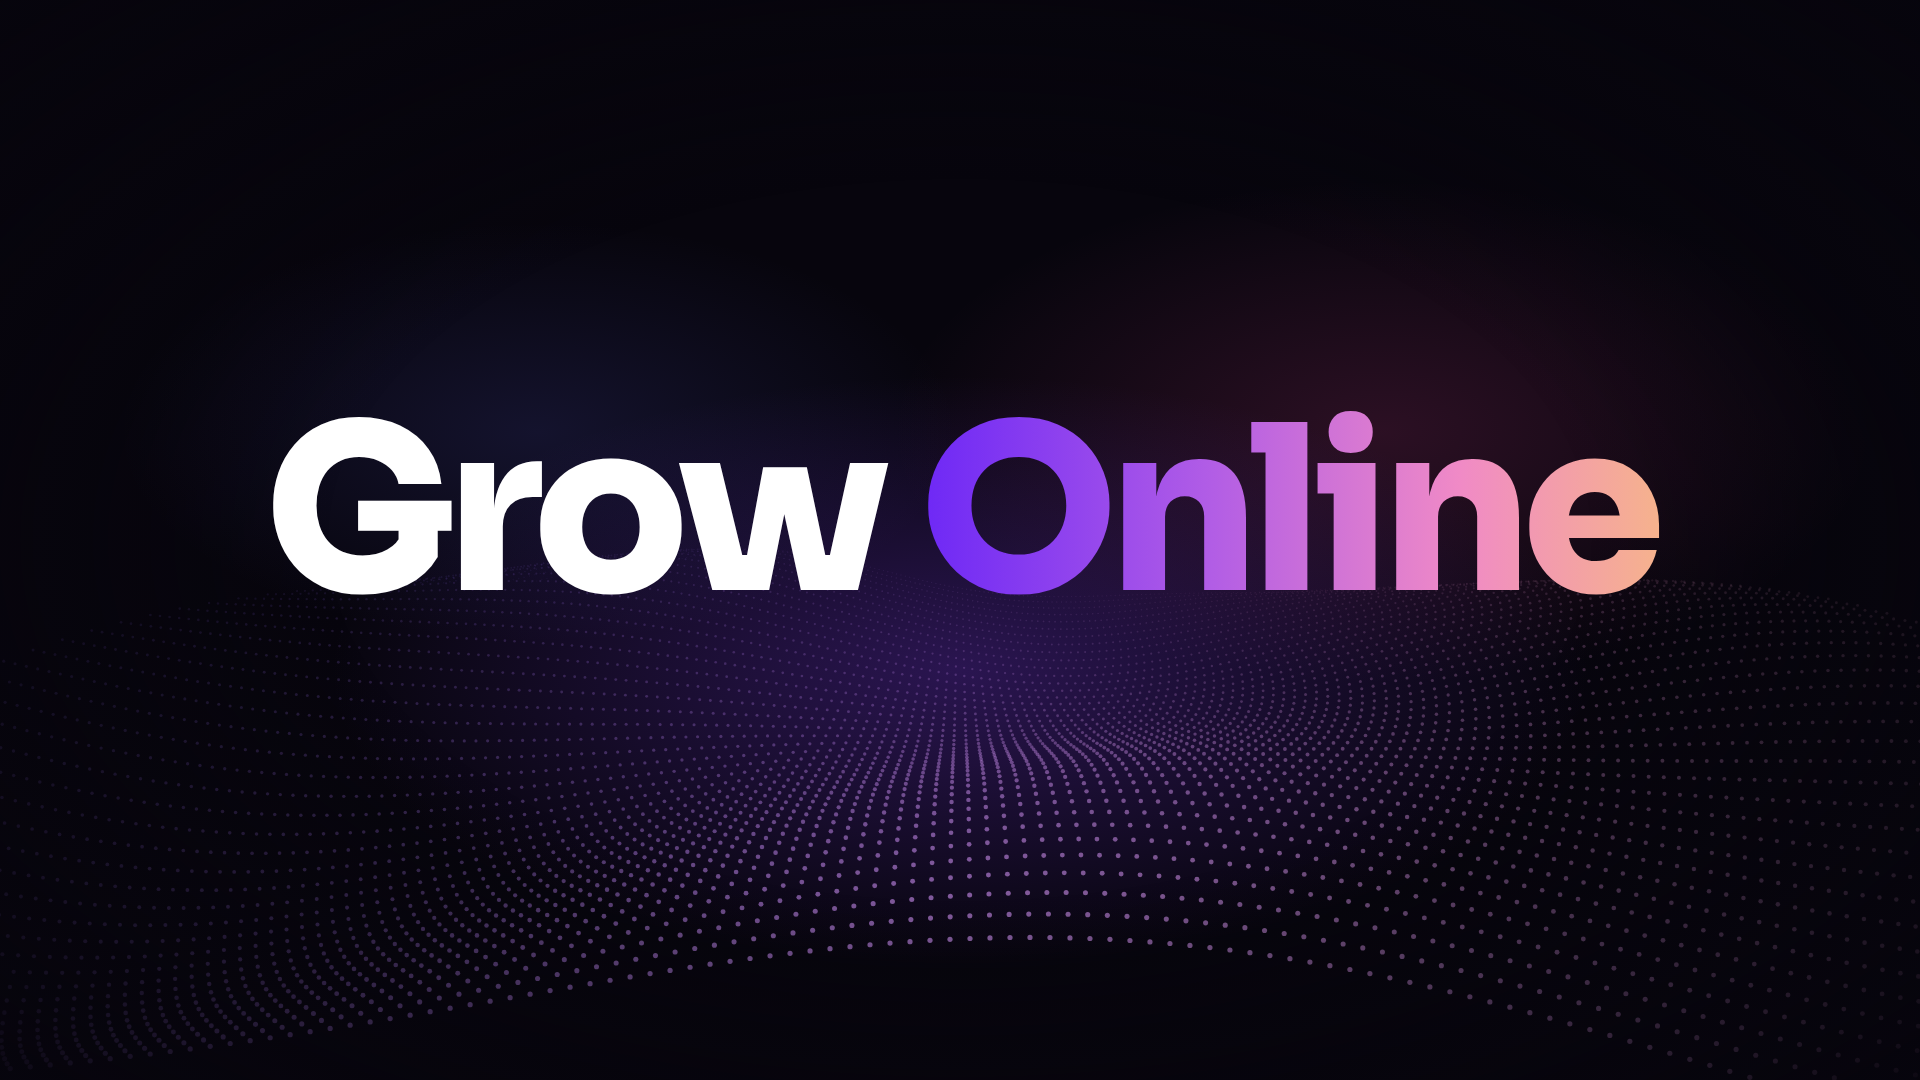
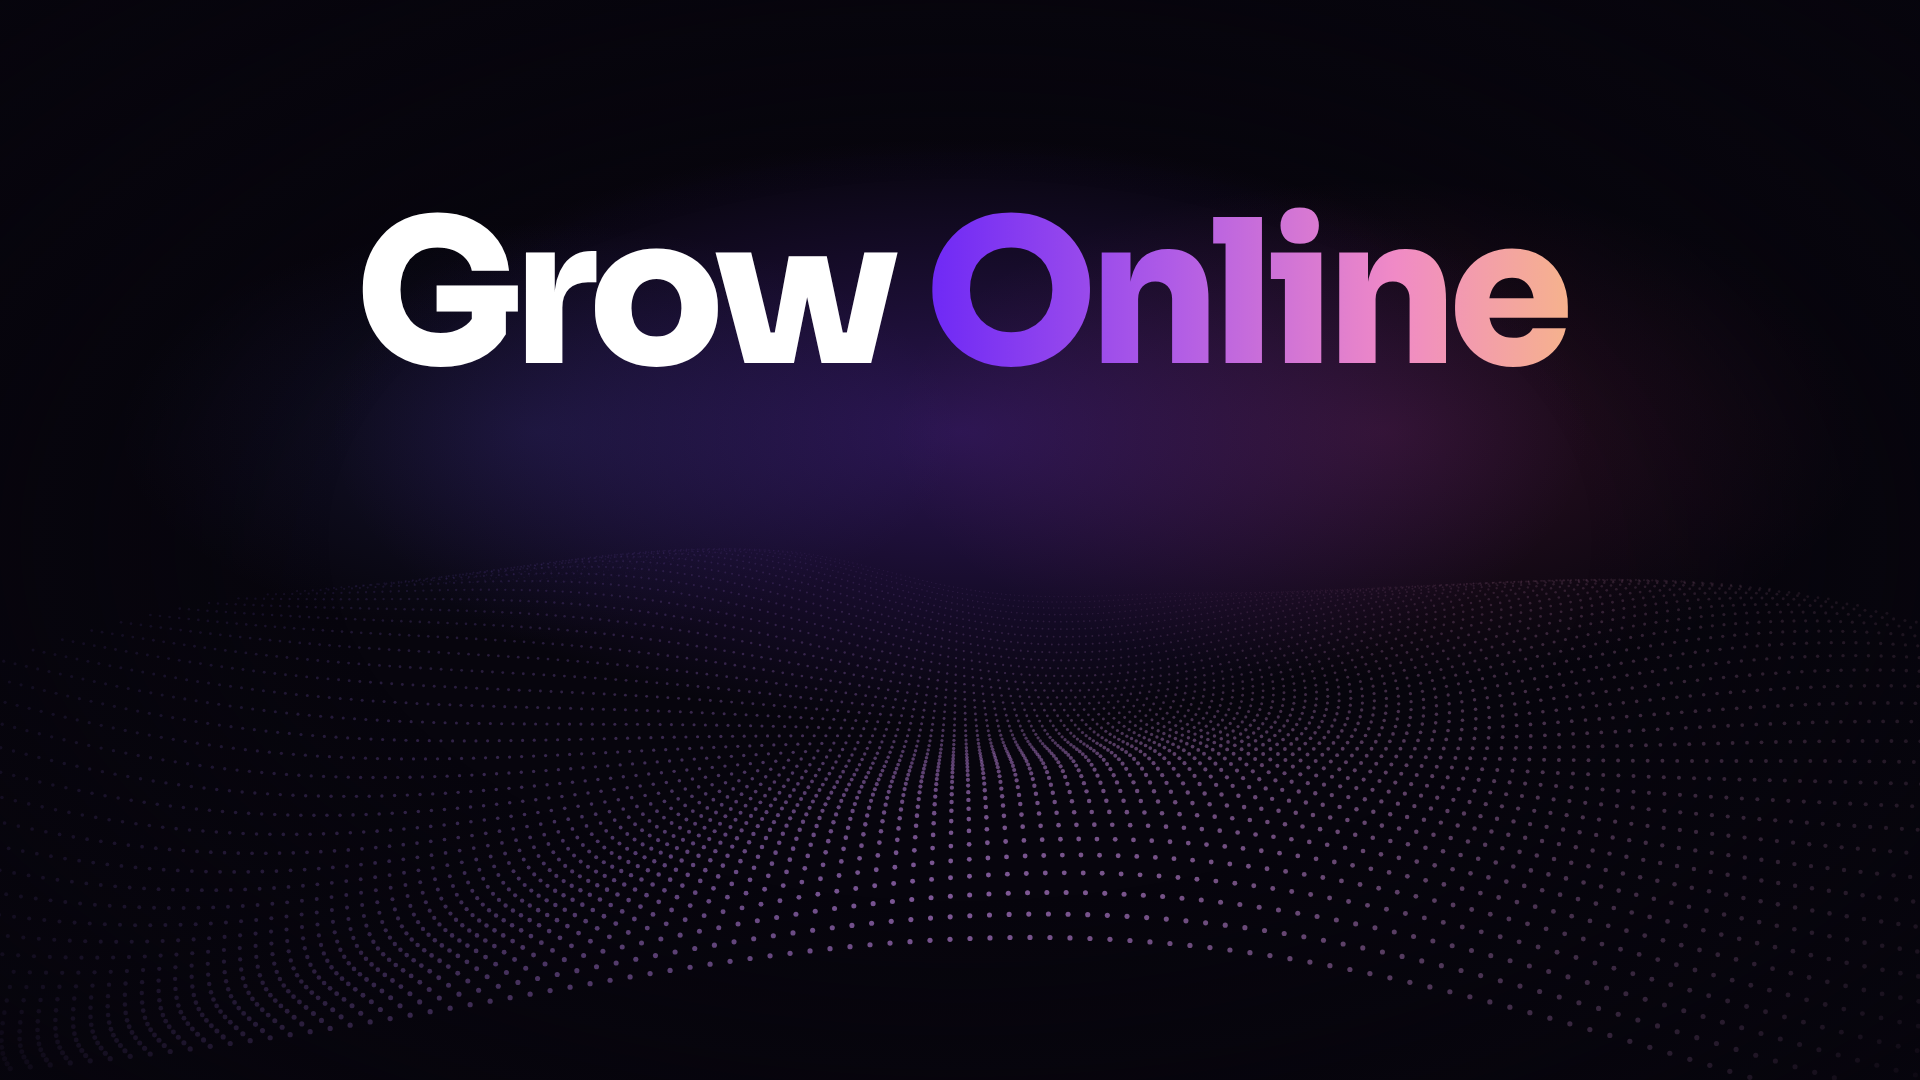
Copertina WhatsApp: scritta spostata sopra la foto profilo
Claude-Session: https://claude.ai/code/session_01U1jjcUAqENdpgzt23dCL9u

Changed region(s): [[0.125, 0.1833, 0.875, 0.7944]]

diff --git a/whatsapp/copertina-dark.html b/whatsapp/copertina-dark.html
@@ -6,13 +6,13 @@
 html,body{width:1920px;height:1080px;overflow:hidden;background:#07050d}
 body{position:relative;font-family:Sora,sans-serif}
 .glow{position:absolute;inset:0;background:
- radial-gradient(900px 420px at 50% 62%,rgba(124,58,237,.30),transparent 70%),
+ radial-gradient(900px 420px at 50% 40%,rgba(124,58,237,.30),transparent 70%),
  radial-gradient(700px 360px at 72% 40%,rgba(236,72,153,.16),transparent 70%),
  radial-gradient(600px 300px at 28% 40%,rgba(99,102,241,.14),transparent 70%)}
 canvas{position:absolute;inset:0}
 .vig{position:absolute;inset:0;background:radial-gradient(1400px 800px at 50% 50%,transparent 45%,#07050d 100%)}
-h1{position:absolute;left:0;right:0;top:50%;transform:translateY(-62%);text-align:center;
- font-weight:800;font-size:230px;letter-spacing:-.045em;line-height:1;color:#fff}
+h1{position:absolute;left:0;right:0;top:295px;transform:translateY(-50%);text-align:center;
+ font-weight:800;font-size:200px;letter-spacing:-.045em;line-height:1;color:#fff}
 h1 span{background:linear-gradient(90deg,#6d28f6 0%,#b05ce6 38%,#f08ac6 72%,#f6b48a 100%);
  -webkit-background-clip:text;background-clip:text;color:transparent;padding-right:.06em;margin-right:-.06em}
 </style></head><body>
